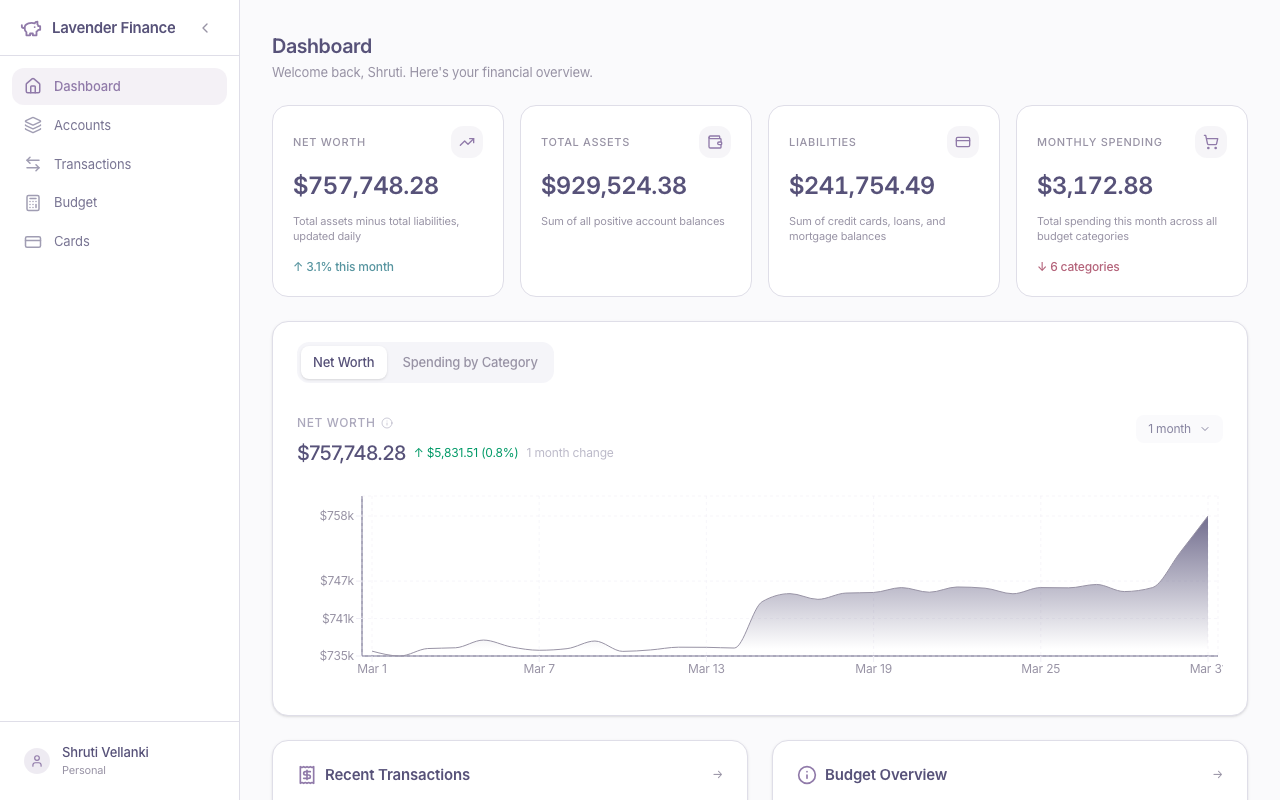
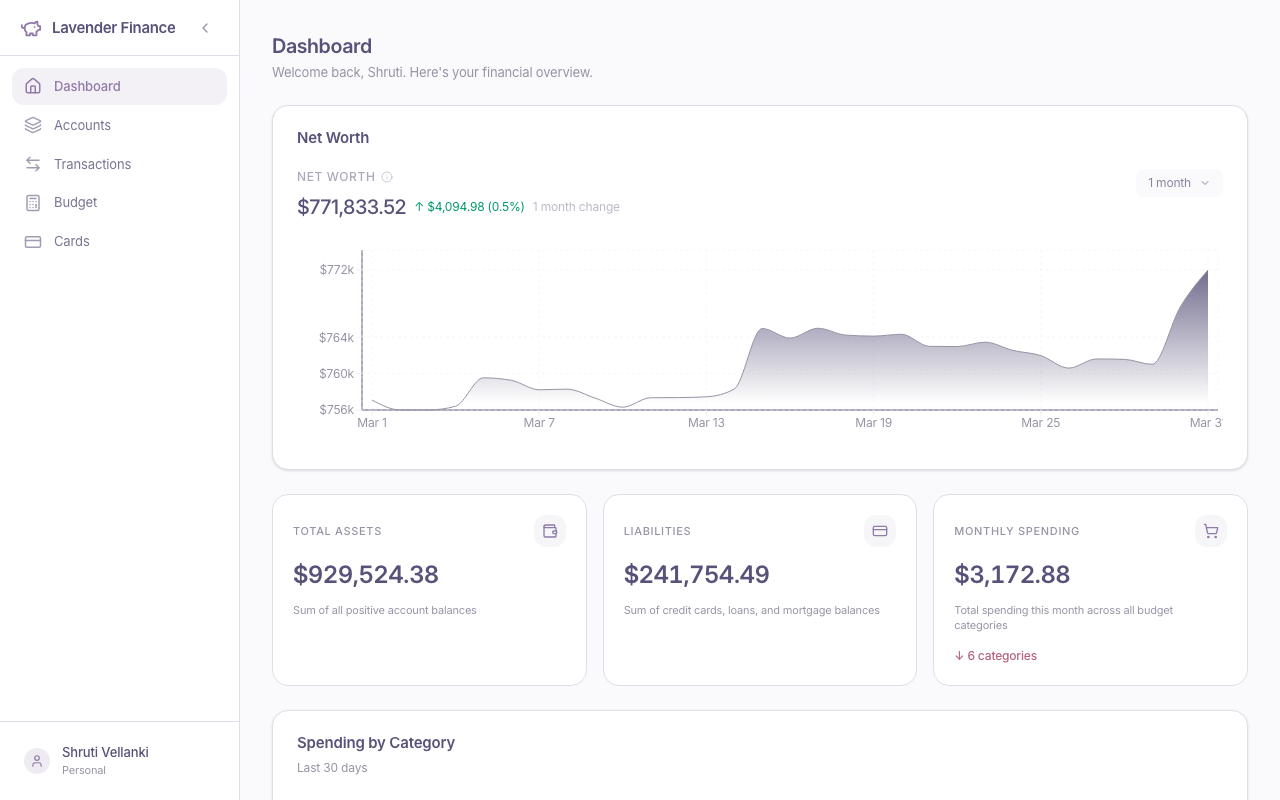
Move net worth chart to top of dashboard, remove net worth stat card
Restructure dashboard: full-width net worth chart at top, 3 stat cards
(assets, liabilities, spending) below, spending chart in its own card.
Retake all README screenshots.

Made-with: Cursor

diff --git a/src/features/dashboard/pages/Dashboard.tsx b/src/features/dashboard/pages/Dashboard.tsx
@@ -13,7 +13,6 @@ import { StatCard } from "@/shared/components/StatCard";
 import { ProgressBar } from "@/shared/components/ProgressBar";
 import { Badge } from "@/shared/components/Badge";
 import { Card, CardHeader, CardTitle, CardContent } from "@/shared/components/Card";
-import { Tabs, TabsList, TabsTrigger, TabsPanel } from "@/shared/components/Tabs";
 import { useCurrency } from "@/shared/context/currency";
 import { ChartContainer } from "@/shared/components/Chart/chart-container";
 import { ChartConfig } from "@/shared/components/Chart/config";
@@ -22,7 +21,7 @@ import {
   BarChart, Bar, XAxis, YAxis, CartesianGrid, Tooltip as RechartsTooltip, ResponsiveContainer,
 } from "recharts";
 import {
-  PiggyBank, Wallet, CreditCard, ShoppingCart, TrendingUp, Receipt, Info,
+  Wallet, CreditCard, ShoppingCart, Receipt, Info,
 } from "lucide-react";
 import { Link } from "react-router-dom";
 import { useTranslation } from "react-i18next";
@@ -92,17 +91,6 @@ export default function Dashboard() {
     return { totalAssets: assets, totalLiabilities: liabilities };
   }, [groupedAccounts]);
 
-  const netWorth = totalBalanceByDateArray?.length
-    ? totalBalanceByDateArray[totalBalanceByDateArray.length - 1].balance
-    : totalAssets - totalLiabilities;
-
-  const netWorthChange = useMemo(() => {
-    if (!totalBalanceByDateArray || totalBalanceByDateArray.length < 30) return 0;
-    const recent = totalBalanceByDateArray[totalBalanceByDateArray.length - 1].balance;
-    const prev = totalBalanceByDateArray[totalBalanceByDateArray.length - 30].balance;
-    return prev !== 0 ? ((recent - prev) / Math.abs(prev)) * 100 : 0;
-  }, [totalBalanceByDateArray]);
-
   const monthlySpending = useMemo(() => spending.reduce((s, c) => s + c.amount, 0), [spending]);
 
   if (loading) return <Loading message={t("common.loading")} />;
@@ -125,16 +113,20 @@ export default function Dashboard() {
             </p>
           </div>
 
-          <div className="grid grid-cols-1 sm:grid-cols-2 lg:grid-cols-4 gap-4">
-            <div className="h-full">
-              <StatCard
-                label={t("dashboard.netWorth")}
-                value={formatCurrency(netWorth)}
-                description={t("dashboard.tooltipNetWorth")}
-                trend={{ direction: netWorthChange >= 0 ? "up" : "down", value: t("dashboard.thisMonth", { value: Math.abs(netWorthChange).toFixed(1) }) }}
-                icon={<TrendingUp className="w-4 h-4" />}
-              />
-            </div>
+          {/* Net Worth Chart */}
+          <Card>
+            <CardHeader>
+              <CardTitle>{t("dashboard.netWorthTab")}</CardTitle>
+            </CardHeader>
+            <CardContent>
+              {totalBalanceByDateArray && (
+                <NetWorthChart totalBalanceByDateArray={totalBalanceByDateArray} />
+              )}
+            </CardContent>
+          </Card>
+
+          {/* Stat Cards */}
+          <div className="grid grid-cols-1 sm:grid-cols-3 gap-4">
             <div className="h-full">
               <StatCard label={t("dashboard.totalAssets")} value={formatCurrency(totalAssets)} description={t("dashboard.tooltipAssets")} icon={<Wallet className="w-4 h-4" />} />
             </div>
@@ -152,37 +144,27 @@ export default function Dashboard() {
             </div>
           </div>
 
-          {/* Tabs: Net Worth / Spending */}
+          {/* Spending by Category */}
           <Card>
-            <Tabs defaultValue="networth">
-              <div className="px-6 pt-5">
-                <TabsList>
-                  <TabsTrigger value="networth">{t("dashboard.netWorthTab")}</TabsTrigger>
-                  <TabsTrigger value="spending">{t("dashboard.spendingTab")}</TabsTrigger>
-                </TabsList>
-              </div>
-              <TabsPanel value="networth" className="p-6">
-                {totalBalanceByDateArray && (
-                  <NetWorthChart totalBalanceByDateArray={totalBalanceByDateArray} />
-                )}
-              </TabsPanel>
-              <TabsPanel value="spending" className="p-6">
-                <p className="text-xs text-lavenderDawn-muted dark:text-lavenderMoon-muted mb-3">
-                  {t("dashboard.last30Days")}
-                </p>
-                <ChartContainer config={spendingChartConfig} className="h-[280px] w-full">
-                  <ResponsiveContainer width="100%" height="100%">
-                    <BarChart data={spending} margin={{ top: 10, right: 10, left: 0, bottom: 0 }}>
-                      <CartesianGrid strokeDasharray="3 3" stroke={gridColor} opacity={0.5} />
-                      <XAxis dataKey="category" tick={{ fill: isDark ? "#e0def4" : "#575279", fontSize: 11 }} tickLine={false} axisLine={false} />
-                      <YAxis tick={{ fill: isDark ? "#e0def4" : "#575279", fontSize: 11 }} tickLine={false} axisLine={false} tickFormatter={(v) => `$${v}`} />
-                      <RechartsTooltip content={<ChartTooltipContent valueFormatter={(v) => formatCurrency(v)} />} cursor={{ fill: isDark ? "rgba(196,167,231,0.06)" : "rgba(144,122,169,0.06)" }} />
-                      <Bar dataKey="amount" fill={barFill} radius={[6, 6, 0, 0]} />
-                    </BarChart>
-                  </ResponsiveContainer>
-                </ChartContainer>
-              </TabsPanel>
-            </Tabs>
+            <CardHeader>
+              <CardTitle>{t("dashboard.spendingTab")}</CardTitle>
+              <p className="text-xs text-lavenderDawn-muted dark:text-lavenderMoon-muted mt-1">
+                {t("dashboard.last30Days")}
+              </p>
+            </CardHeader>
+            <CardContent>
+              <ChartContainer config={spendingChartConfig} className="h-[280px] w-full">
+                <ResponsiveContainer width="100%" height="100%">
+                  <BarChart data={spending} margin={{ top: 10, right: 10, left: 0, bottom: 0 }}>
+                    <CartesianGrid strokeDasharray="3 3" stroke={gridColor} opacity={0.5} />
+                    <XAxis dataKey="category" tick={{ fill: isDark ? "#e0def4" : "#575279", fontSize: 11 }} tickLine={false} axisLine={false} />
+                    <YAxis tick={{ fill: isDark ? "#e0def4" : "#575279", fontSize: 11 }} tickLine={false} axisLine={false} tickFormatter={(v) => `$${v}`} />
+                    <RechartsTooltip content={<ChartTooltipContent valueFormatter={(v) => formatCurrency(v)} />} cursor={{ fill: isDark ? "rgba(196,167,231,0.06)" : "rgba(144,122,169,0.06)" }} />
+                    <Bar dataKey="amount" fill={barFill} radius={[6, 6, 0, 0]} />
+                  </BarChart>
+                </ResponsiveContainer>
+              </ChartContainer>
+            </CardContent>
           </Card>
 
           {/* Bottom Row */}
